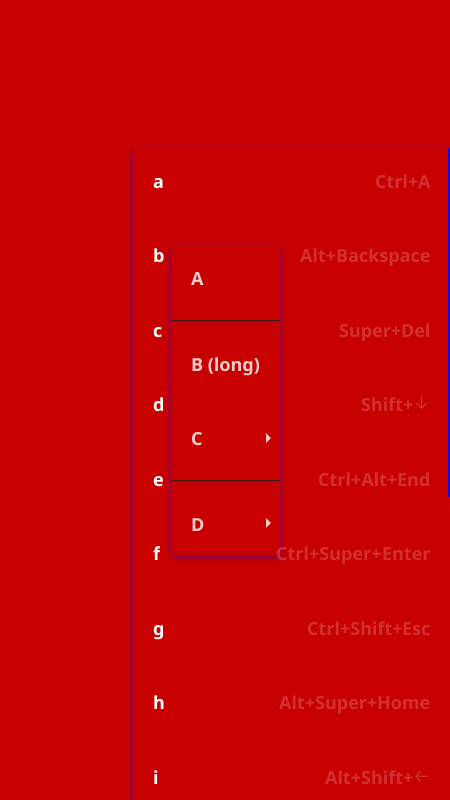
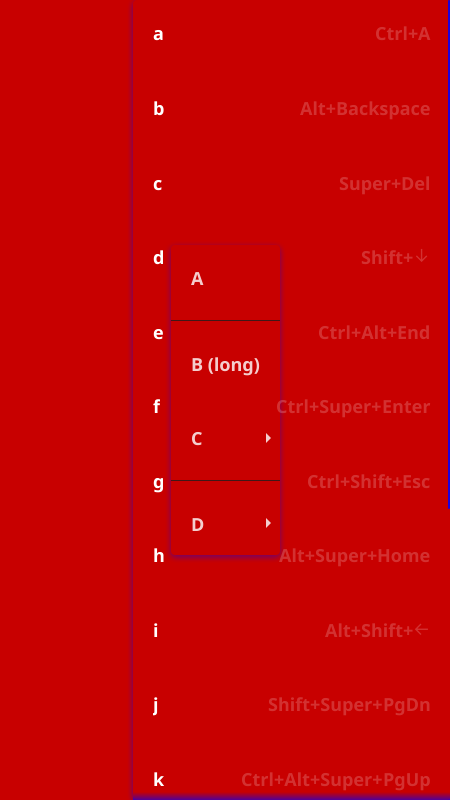
Fix submenus taller than the window not being scrollable
The parent placed a child menu using its current size and moved it up
by the missing height without stopping at the top of the canvas. The
child only clamps itself from its own position, which is unknown on
first open, so an over-tall submenu kept its full height and ended up
mostly above the window with nothing left to scroll.

Position the child from its minimum size, keep it inside the canvas
and resize it to the visible height. Let a submenu that is given less
height than its content scroll instead of growing back to full size;
other menus keep growing to their minimum size as before.

Fixes #6479

diff --git a/widget/menu_test.go b/widget/menu_test.go
@@ -1,6 +1,7 @@
 package widget_test
 
 import (
+	"fmt"
 	"testing"
 
 	"fyne.io/fyne/v2"
@@ -10,6 +11,7 @@ import (
 	"fyne.io/fyne/v2/widget"
 
 	"github.com/stretchr/testify/assert"
+	"github.com/stretchr/testify/require"
 )
 
 func TestMenu_RefreshOptions(t *testing.T) {
@@ -104,4 +106,52 @@ func TestMenu_TappedPaddingOrSeparator(t *testing.T) {
 	assert.False(t, overlayContainerHit, "the overlay container should not be hit")
 	test.TapCanvas(c, fyne.NewPos(size.Width+2, size.Height+2))
 	assert.True(t, overlayContainerHit, "hit the overlay container")
+}
+
+func TestMenu_SubmenuTallerThanCanvasScrolls(t *testing.T) {
+	w := test.NewTempWindow(t, widget.NewLabel(""))
+	w.SetPadded(false)
+	w.Resize(fyne.NewSize(200, 300))
+	c := w.Canvas()
+	d := fyne.CurrentApp().Driver()
+
+	items := make([]*fyne.MenuItem, 50)
+	for i := range items {
+		items[i] = fyne.NewMenuItem(fmt.Sprintf("Item %d", i), nil)
+	}
+	parent := fyne.NewMenuItem("Alpha", nil)
+	parent.ChildMenu = fyne.NewMenu("", items...)
+	m := widget.NewPopUpMenu(fyne.NewMenu("", parent), c)
+	m.ShowAtPosition(fyne.NewPos(0, 150))
+	test.MoveMouse(c, fyne.NewPos(20, 160)) // hover "Alpha" to open its submenu on desktop ...
+	test.TapCanvas(c, fyne.NewPos(20, 160)) // ... or tap it on mobile
+
+	var child *widget.Menu
+	for _, o := range test.WidgetRenderer(m.Menu).Objects() {
+		if sub, ok := o.(*widget.Menu); ok {
+			child = sub
+		}
+	}
+	require.NotNil(t, child)
+	_, areaSize := c.InteractiveArea()
+	require.Greater(t, child.MinSize().Height, areaSize.Height, "the submenu must not fit the canvas")
+
+	// the submenu is pinned to the top of the canvas and clamped to its height, like an over-tall menu
+	childPos := d.AbsolutePositionForObject(child)
+	assert.Equal(t, float32(0), childPos.Y)
+	assert.Equal(t, areaSize.Height, child.Size().Height)
+
+	// the items below the canvas can be scrolled into view
+	last := child.Items[len(child.Items)-1]
+	require.Greater(t, d.AbsolutePositionForObject(last).Y, areaSize.Height)
+	test.Scroll(c, fyne.NewPos(childPos.X+10, 10), 0, -child.MinSize().Height)
+	assert.LessOrEqual(t, d.AbsolutePositionForObject(last).Y+last.Size().Height, areaSize.Height)
+}
+
+func TestMenu_ResizeBelowMinSizeGrowsBack(t *testing.T) {
+	test.NewTempApp(t)
+
+	m := widget.NewMenu(fyne.NewMenu("", fyne.NewMenuItem("Foo", nil), fyne.NewMenuItem("Bar", nil)))
+	m.Resize(fyne.NewSize(100, 10)) // e.g. a stale size after a theme change
+	assert.Equal(t, m.MinSize().Height, m.Size().Height)
 }

diff --git a/widget/menu.go b/widget/menu.go
@@ -23,6 +23,7 @@ type Menu struct {
 	activeItem    *menuItem
 	customSized   bool
 	containsCheck bool
+	isSubmenu     bool
 }
 
 // NewMenu creates a new Menu.
@@ -242,13 +243,17 @@ func (r *menuRenderer) Layout(s fyne.Size) {
 		boxSize = minSize
 	}
 	scrollSize := boxSize
+	if r.m.isSubmenu && s.Height < scrollSize.Height {
+		// the parent clamped the submenu to the canvas, scroll instead of growing back to full height
+		scrollSize.Height = s.Height
+	}
 
 	driver := fyne.CurrentApp().Driver()
 	if c := driver.CanvasForObject(r.m.super()); c != nil {
 		ap := driver.AbsolutePositionForObject(r.m.super())
 		_, areaSize := c.InteractiveArea()
-		if ah := areaSize.Height - ap.Y; ah < boxSize.Height {
-			scrollSize = fyne.NewSize(boxSize.Width, ah)
+		if ah := areaSize.Height - ap.Y; ah < scrollSize.Height {
+			scrollSize.Height = ah
 		}
 	}
 	if scrollSize != r.m.Size() {
@@ -290,17 +295,14 @@ func (r *menuRenderer) layoutActiveChild() {
 		return
 	}
 
-	if item.Child().Size().IsZero() {
-		item.Child().Resize(item.Child().MinSize())
-	}
-
+	child := item.Child()
+	childSize := child.MinSize()
 	itemSize := item.Size()
 	cp := fyne.NewPos(itemSize.Width, item.Position().Y)
 	d := fyne.CurrentApp().Driver()
 	c := d.CanvasForObject(item)
 	if c != nil {
 		absPos := d.AbsolutePositionForObject(item)
-		childSize := item.Child().Size()
 		if absPos.X+itemSize.Width+childSize.Width > c.Size().Width {
 			if absPos.X-childSize.Width >= 0 {
 				cp.X = -childSize.Width
@@ -308,14 +310,15 @@ func (r *menuRenderer) layoutActiveChild() {
 				cp.X = c.Size().Width - absPos.X - childSize.Width
 			}
 		}
-		requiredHeight := childSize.Height - r.m.Theme().Size(theme.SizeNamePadding)
-		availableHeight := c.Size().Height - absPos.Y
-		missingHeight := requiredHeight - availableHeight
-		if missingHeight > 0 {
-			cp.Y -= missingHeight
-		}
+		// Move the submenu up if it would extend below the canvas, but never above its top.
+		// Whatever still does not fit is scrolled, just like for the menu itself.
+		_, areaSize := c.InteractiveArea()
+		top := fyne.Max(0, fyne.Min(absPos.Y, areaSize.Height-childSize.Height))
+		cp.Y -= absPos.Y - top
+		childSize.Height = fyne.Min(childSize.Height, areaSize.Height-top)
 	}
-	item.Child().Move(cp)
+	child.Move(cp)
+	child.Resize(childSize)
 }
 
 type menuBox struct {

diff --git a/widget/popup_menu_test.go b/widget/popup_menu_test.go
@@ -44,6 +44,9 @@ func TestPopUpMenu_Resize(t *testing.T) {
 	test.AssertRendersToMarkup(t, "popup_menu/canvas_too_small.xml", c)
 	_, areaSize := c.InteractiveArea()
 	assert.Equal(t, fyne.NewSize(largeSize.Width, areaSize.Height), m.Size(), "width is larger than canvas; height is limited by canvas (menu scrolls)")
+
+	m.Resize(fyne.NewSize(largeSize.Width, 10))
+	assert.Equal(t, fyne.NewSize(largeSize.Width, m.MinSize().Height), m.Size(), "less height than the content needs grows back to the minimum")
 }
 
 func TestPopUpMenu_Show(t *testing.T) {

diff --git a/widget/menu_item.go b/widget/menu_item.go
@@ -41,6 +41,7 @@ func (i *menuItem) Child() *Menu {
 		child := NewMenu(i.Item.ChildMenu)
 		child.Hide()
 		child.OnDismiss = i.parent.Dismiss
+		child.isSubmenu = true
 		i.child = child
 	}
 	return i.child
